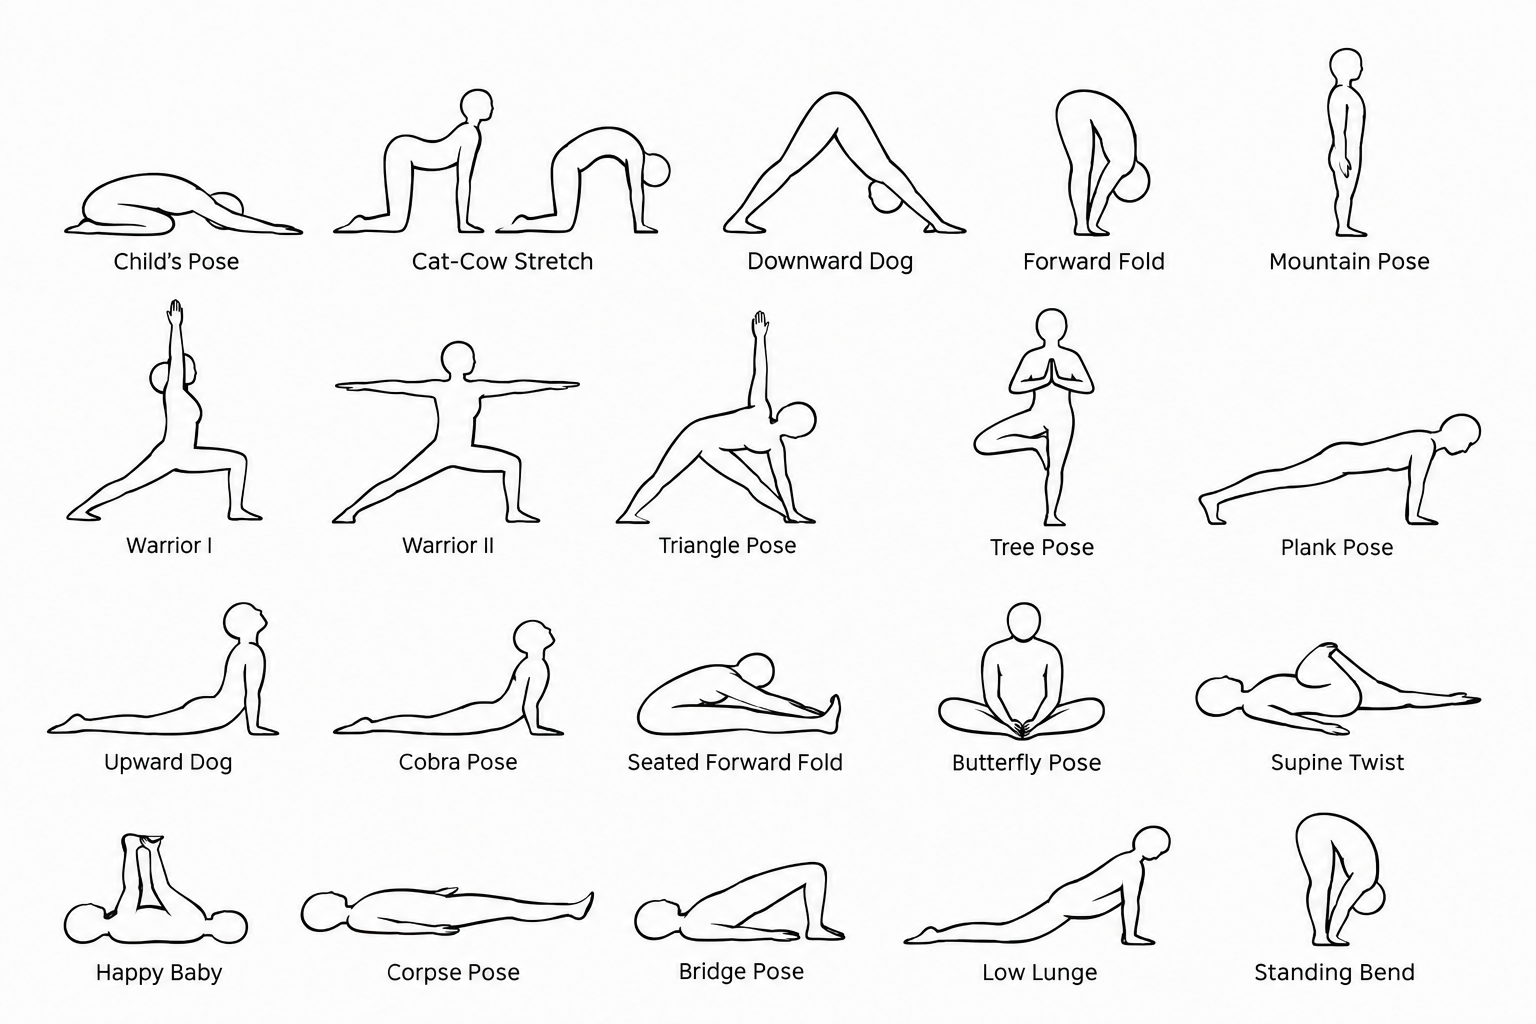
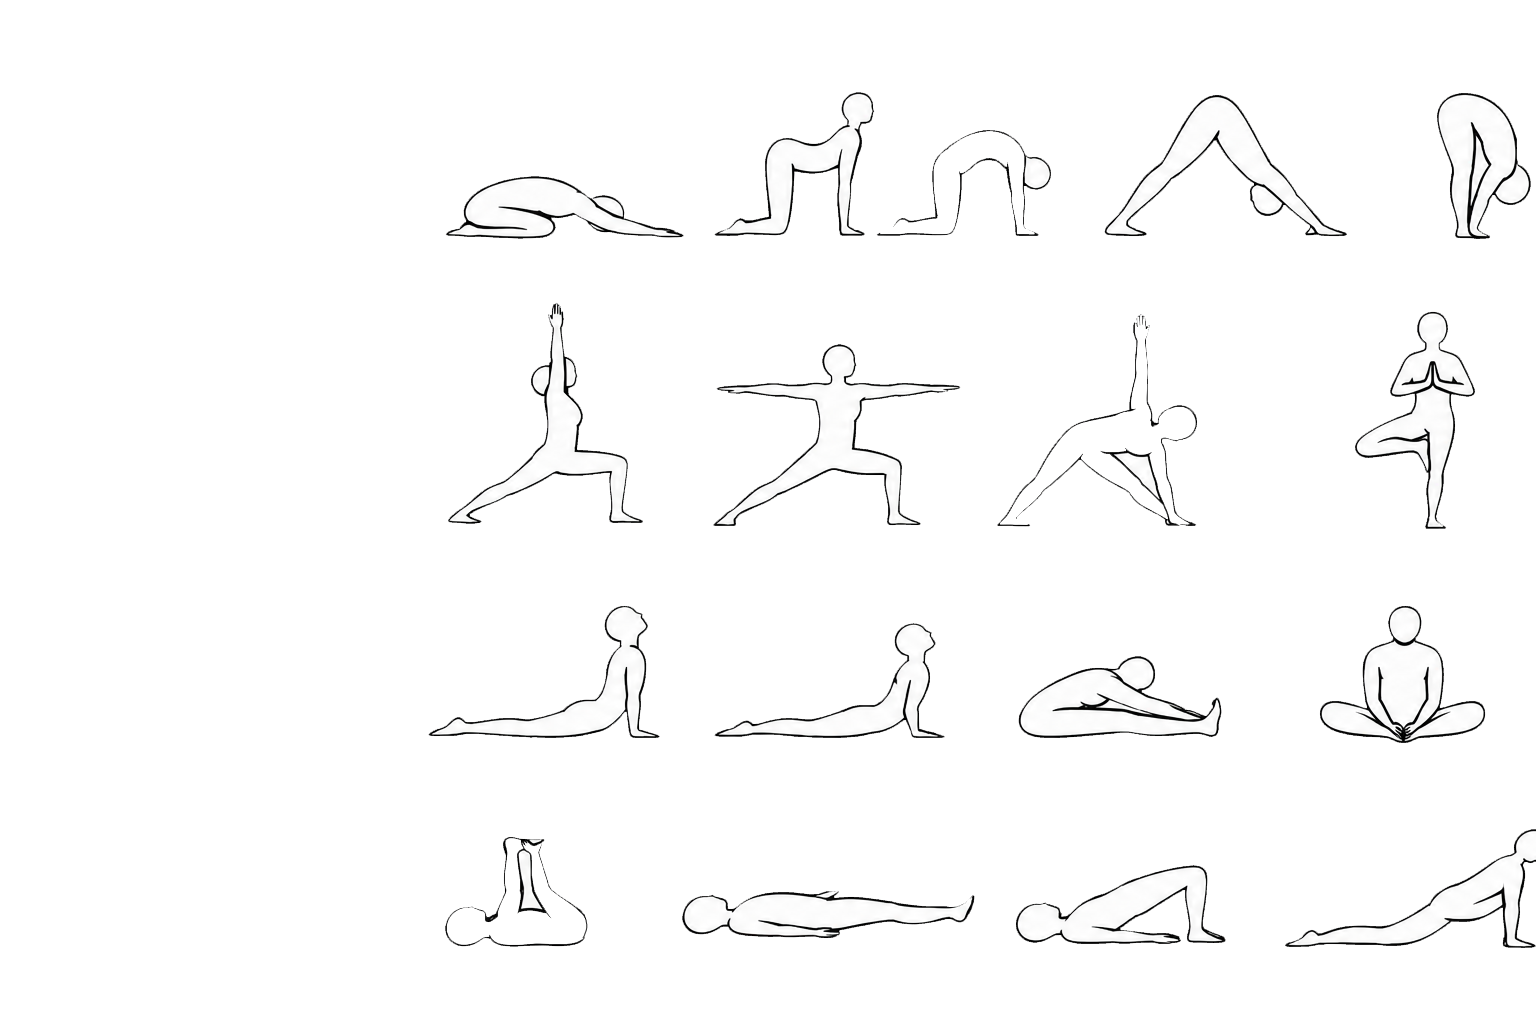
try this

diff --git a/index.html b/index.html
@@ -549,6 +549,23 @@
         let startTime = 0;
         let pausedTime = 0;
         let sessionStartTime = 0;
+        let wakeLock = null;
+
+        async function requestWakeLock() {
+            if ('wakeLock' in navigator) {
+                try {
+                    wakeLock = await navigator.wakeLock.request('screen');
+                    wakeLock.addEventListener('release', () => { wakeLock = null; });
+                } catch (e) {}
+            }
+        }
+
+        function releaseWakeLock() {
+            if (wakeLock) {
+                wakeLock.release();
+                wakeLock = null;
+            }
+        }
 
         function startWorkout() {
             appState.currentPage = 'workout';
@@ -598,7 +615,7 @@
 
                     <div class="controls">
                         <button class="btn-secondary" onclick="toggleTimer()">${isRunning ? 'Pause' : 'Start'}</button>
-                        <button class="btn-primary" onclick="nextPose()">${currentPoseIndex === poses.length - 1 ? 'Finish' : 'Next'}</button>
+                        <button class="btn-primary" onclick="nextPose(false)">${currentPoseIndex === poses.length - 1 ? 'Finish' : 'Next'}</button>
                     </div>
                 </div>
             `;
@@ -608,21 +625,32 @@
             if (isRunning) {
                 isRunning = false;
                 pausedTime = Date.now();
+                releaseWakeLock();
             } else {
                 isRunning = true;
                 startTime = Date.now() - pausedTime;
+                requestWakeLock();
             }
             updateTimer();
         }
 
-        function nextPose() {
+        function nextPose(autoAdvance) {
             if (currentPoseIndex < poses.length - 1) {
                 currentPoseIndex++;
                 timeRemaining = poses[currentPoseIndex].duration;
-                isRunning = false;
-                pausedTime = 0;
-                render();
+                if (autoAdvance) {
+                    isRunning = true;
+                    startTime = Date.now();
+                    pausedTime = 0;
+                    render();
+                    updateTimer();
+                } else {
+                    isRunning = false;
+                    pausedTime = 0;
+                    render();
+                }
             } else {
+                releaseWakeLock();
                 completeSession();
             }
         }
@@ -632,7 +660,7 @@
             const elapsed = Math.floor((Date.now() - startTime) / 1000);
             timeRemaining = Math.max(0, poses[currentPoseIndex].duration - elapsed);
             if (timeRemaining === 0) {
-                nextPose();
+                nextPose(true);
             } else {
                 render();
                 setTimeout(updateTimer, 100);
@@ -669,6 +697,7 @@
             appState.currentPage = 'dashboard';
             currentPoseIndex = 0;
             isRunning = false;
+            releaseWakeLock();
             render();
         }
 
